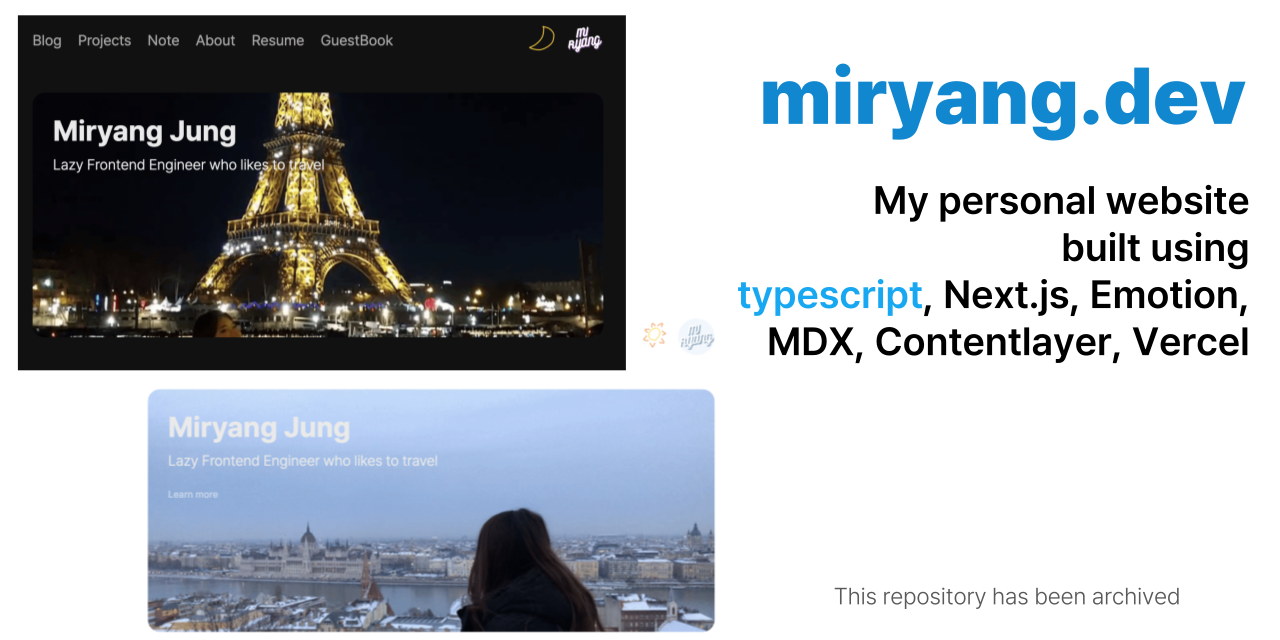
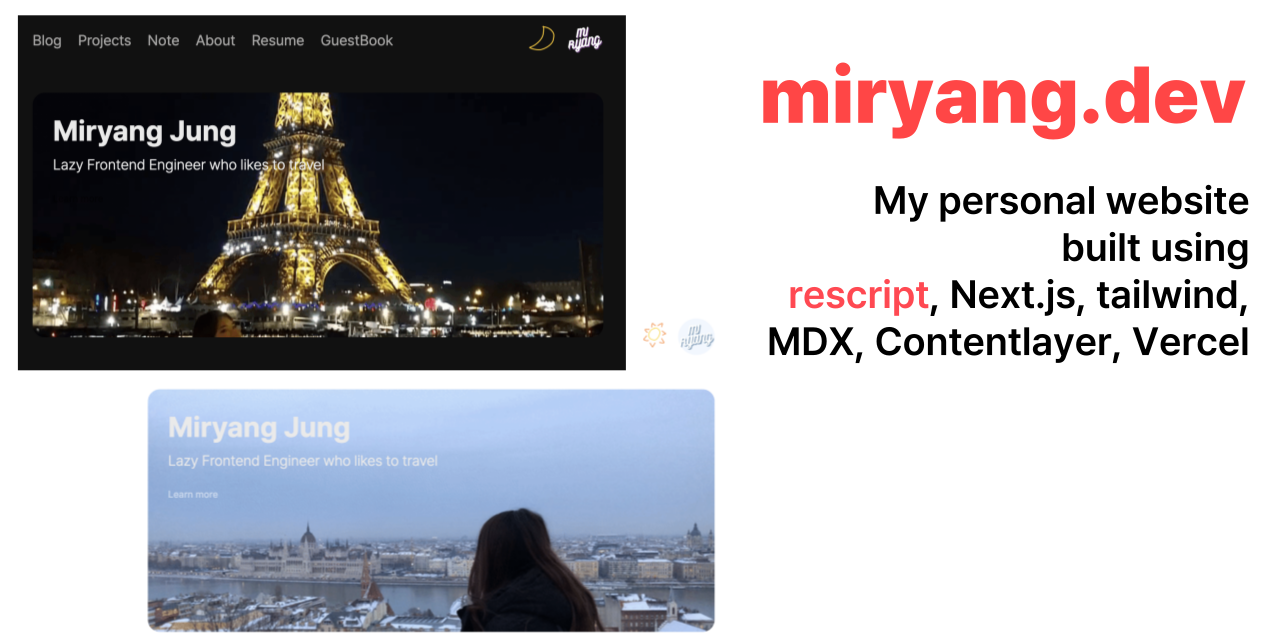
readme 수정

Changed region(s): [[0.5938, 0.0938, 0.9688, 0.2188], [0.5625, 0.4375, 0.9688, 0.5], [0.6562, 0.9062, 0.9375, 0.9688]]

diff --git a/README.md b/README.md
@@ -1,9 +1,9 @@
 # Miryang-Nextjs-Blog
 
-`rescript` 로 언어가 변경되면서 이 저장소는 보관되었습니다.  
-As the language was changed with `rescript`, this repository was archived.
+`rescript` 로 언어를 변경 중입니다.
+Changing language to `rescript`
 
-- [New repository with rescript](https://github.com/MiryangJung/miryang.dev)
+- [Old repository with typescript](https://github.com/MiryangJung/miryang.dev-ts)
 
 > [miryang.dev](https://miryang.dev)
 
@@ -19,13 +19,14 @@ Function development will continue.  All ideas are welcomed!
 - Language `typescript`
 - Framework `Next.js`
 - Content `contentlayer`
-- Style `emotion`
+- Style `emotion` && `tailwind`
 - Deploy `Vercel`
 - VCS `Git`
 
 ## Run
 
 ```shell
+yarn re:dev
 yarn dev
 ```
 
